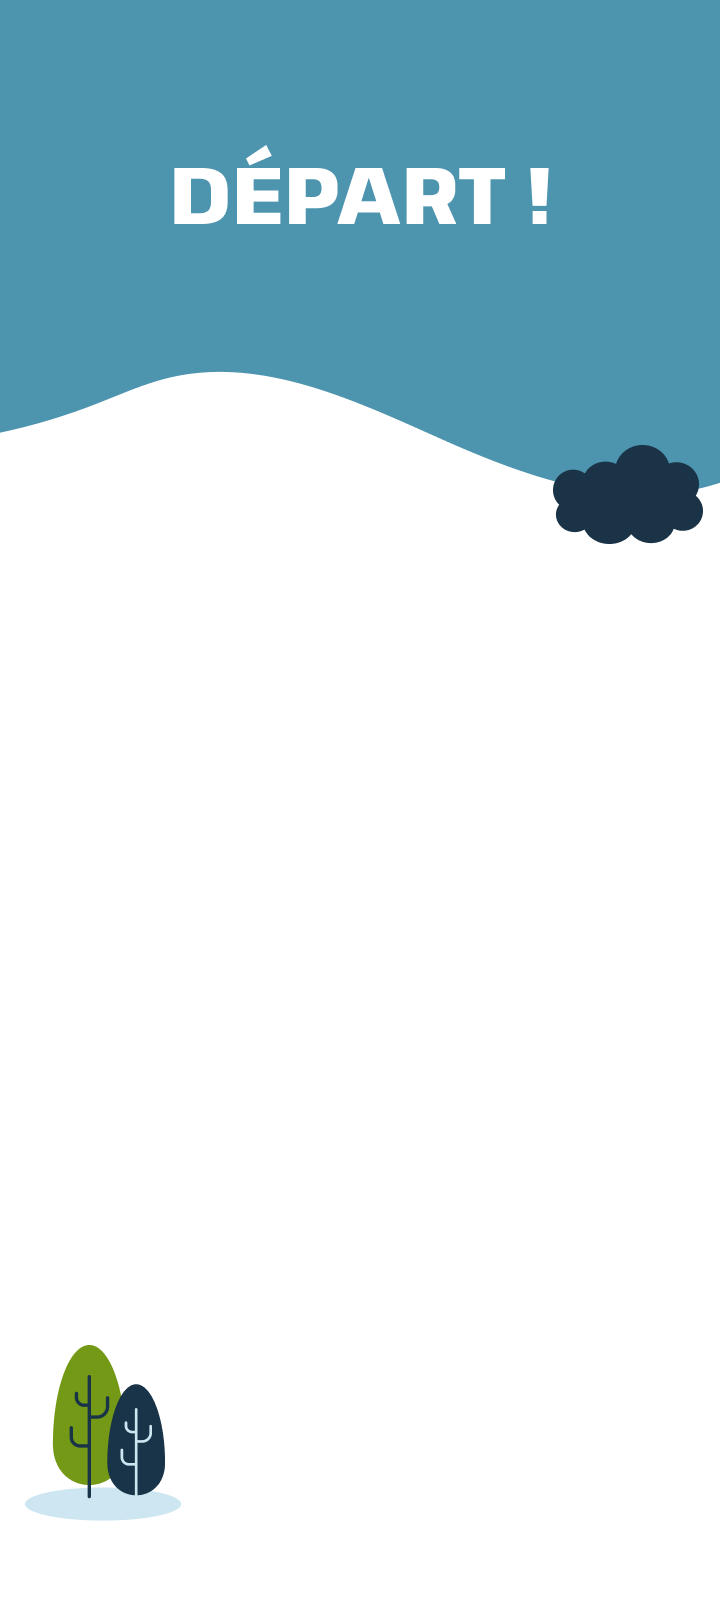
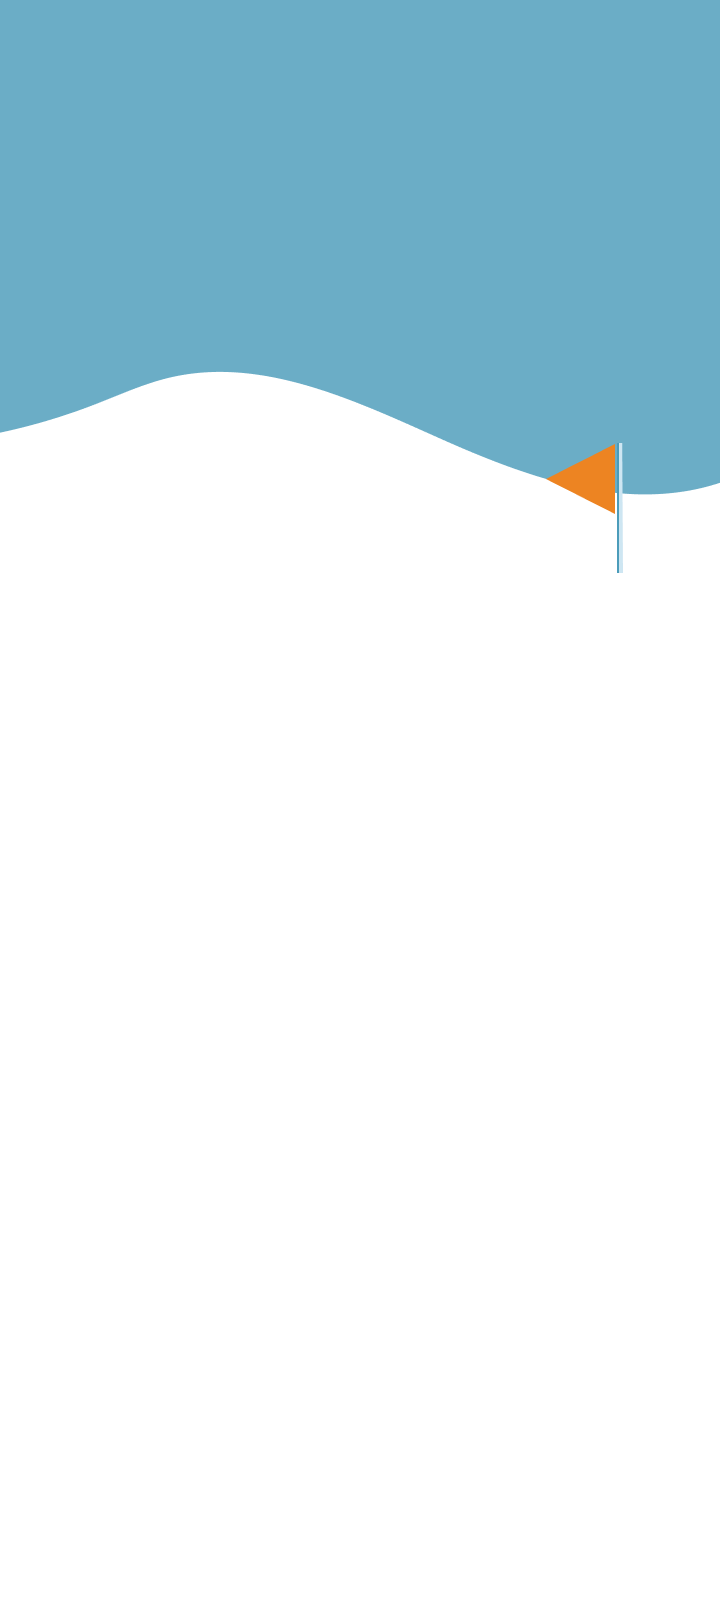
update style and sound

Changed region(s): [[0.0, 0.0, 1.0, 0.375], [0.0306, 0.8438, 0.2444, 0.9688]]

diff --git a/lavoixdunord/frontend/src/music/LayoutWithMusic.js b/lavoixdunord/frontend/src/music/LayoutWithMusic.js
@@ -1,6 +1,6 @@
 import React, { useState, useRef } from 'react';
 import backgroundMusic from './test1.mp3';
-import { FaVolumeMute, FaVolumeUp } from 'react-icons/fa';
+import { MdMusicOff, MdMusicNote } from 'react-icons/md';
 
 const LayoutWithMusic = ({ children }) => {
     const [isPlaying, setIsPlaying] = useState(true);
@@ -23,15 +23,17 @@ const LayoutWithMusic = ({ children }) => {
         background: 'none',
         cursor: 'pointer',
         fontSize: '24px',
-        color: '#666',
+        color: '#1A3347',
         padding: '10px'
     };
 
     const containerStyle = {
-        position: 'absolute',
-        bottom: '10px',
-        right: '30px'
-    };
+        position: 'fixed',
+        top: '95%', 
+        left: '56.5%',
+        transform: 'translate(50px, -50%)',
+        zIndex: 1000
+    }
 
     return (
         <div>
@@ -41,7 +43,7 @@ const LayoutWithMusic = ({ children }) => {
             </audio>
             <div style={containerStyle}>
                 <button onClick={togglePlay} style={buttonStyle}>
-                    {isPlaying ? <FaVolumeUp />: <FaVolumeMute /> }
+                    {isPlaying ? <MdMusicNote />: <MdMusicOff /> }
                 </button>
             </div>
             {children}

diff --git a/lavoixdunord/frontend/src/App.js b/lavoixdunord/frontend/src/App.js
@@ -28,14 +28,9 @@ function App() {
             <Route path="/start/:difficulty" element={<StartPage />} />
             <Route path="/start/:difficulty/:id" element={<QuestionPage />} />
             <Route path="/final" element={<FinalPage />} />
-            {/* Page de transition */}
             <Route path="/transition/:difficulty/:level_id" element={<TransitionPage />} />
-            {/* Page de credits */}
             <Route path="/credit" element={<Credit />} />
-            {/* Page final */}
             <Route path="/final" element={<FinalPage />} />
-
-
           </Routes>
         </div>
       </LayoutWithMusic>

diff --git a/lavoixdunord/frontend/src/QuestionPage/QuestionPage.css b/lavoixdunord/frontend/src/QuestionPage/QuestionPage.css
@@ -67,6 +67,7 @@ body {
   font-size: 16px;
 }
 
+
 .answer-btn.selected {
   background-color: #bed5e7; /* Couleur de surbrillance pour le choix sélectionné */
   color: #1A3347; /* Couleur du texte contrastante */
@@ -324,5 +325,9 @@ body.modal-open {
   max-height: 80%;
   border-radius: 10px; /* Bords arrondis */
   box-shadow: 0 4px 8px rgba(0, 0, 0, 0.3); /* Ombre légère */
+}
+
+.btn{
+  margin-top: 45px;
 }
 /*jusqua ici*/

diff --git a/lavoixdunord/frontend/src/startPage/startPage.css b/lavoixdunord/frontend/src/startPage/startPage.css
@@ -1,4 +1,15 @@
 .start_page_bg {
-    background: url('bg_page_depart.png');
+    background: url('startPage.png');
     background-size: 100% 100%;
+    position: relative;
+}
+
+.arbre {
+    background: url('arbre2.gif') no-repeat center center; 
+    position: absolute;
+    bottom: -2rem;
+    left: 2rem;
+    height: 13rem;
+    width: 9rem;
+    zoom: 0.4;
 }

diff --git a/lavoixdunord/frontend/src/finalPage/finalPage.css b/lavoixdunord/frontend/src/finalPage/finalPage.css
@@ -1,4 +1,16 @@
 .background_final {
     background: url('finalPage.png');
     background-size: 100% 100%;
+    position: relative;
+}
+
+
+.arbre {
+    background: url('arbre2.gif') no-repeat center center; 
+    position: absolute;
+    bottom: -2rem;
+    left: 2rem;
+    height: 13rem;
+    width: 9rem;
+    zoom: 0.4;
 }

diff --git a/lavoixdunord/frontend/src/finalPage/finalPage.js b/lavoixdunord/frontend/src/finalPage/finalPage.js
@@ -7,6 +7,7 @@ const FinalPage = () => {
 
     return (
         <div className="background_final">
+            <div class="arbre"></div>
             <div className="text-center p-4 mt-84">
                 <h1 className="text-white mb-5">MERCI</h1>
                 <div className='my-5'>&nbsp;</div>

diff --git a/lavoixdunord/frontend/src/startPage/startPage.js b/lavoixdunord/frontend/src/startPage/startPage.js
@@ -18,6 +18,7 @@ const StartPage = () => {
 
     return (
         <div className="start_page_bg w-100 position-relative">
+            <div class="arbre"></div>
             <div className="mt-84 text-center">
                 <h1 className="text-white">DÉPART !</h1>
 

diff --git a/lavoixdunord/frontend/src/NavBarComponent/NavBarComponent.scss b/lavoixdunord/frontend/src/NavBarComponent/NavBarComponent.scss
@@ -49,5 +49,5 @@
 }
 
 .mb-0 {
-    margin-right: 10px;
+    margin-right: 3px;
 }
